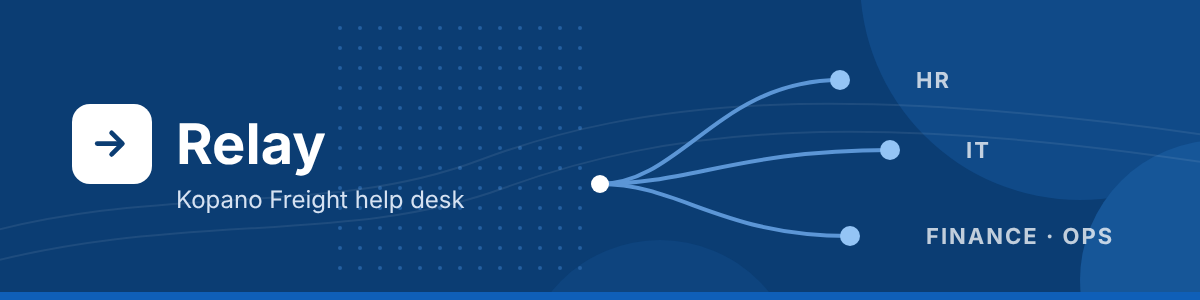
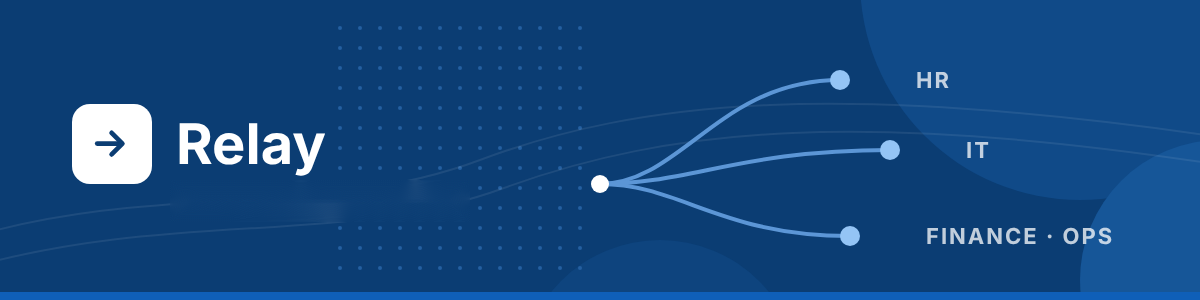
Email: restore the header design without the Kopano line; company name under it
Claude-Session: https://claude.ai/code/session_014Xczj9BvceXEqxvt3pSPtj

Changed region(s): [[0.1233, 0.63, 0.4008, 0.72]]

diff --git a/docs/email-templates/invite.html b/docs/email-templates/invite.html
@@ -1,5 +1,6 @@
 <!-- Relay email: invite. Paste into Supabase: Authentication > Emails > Invite user.
      Subject: You've been invited to Relay
+     Header image: public/email/header.png (must be on main before it shows).
      Uses the company name sent with the invite ({{ .Data.company_name }}). Manage users invites
      send no company name, so they fall back to Kopano Freight. Needs custom SMTP first (README). -->
 <!DOCTYPE html>
@@ -10,9 +11,13 @@
       <td align="center">
         <table role="presentation" width="600" cellpadding="0" cellspacing="0" style="max-width:600px;width:100%;background-color:#ffffff;border-radius:12px;overflow:hidden;font-family:Arial,Helvetica,sans-serif;">
           <tr>
-            <td style="padding:28px 40px;background-color:#0b3d73;">
-              <p style="margin:0;font-size:26px;font-weight:bold;color:#ffffff;">Relay</p>
-              <p style="margin:6px 0 0 0;font-size:14px;color:#d6e2f2;">{{ if .Data.company_name }}{{ .Data.company_name }}{{ else }}Kopano Freight{{ end }} help desk</p>
+            <td style="padding:0;line-height:0;background-color:#0b3d73;">
+              <img src="https://relay-gilt-nine.vercel.app/email/header.png" width="600" alt="Relay" style="display:block;width:100%;max-width:600px;height:auto;border:0;" />
+            </td>
+          </tr>
+          <tr>
+            <td style="padding:12px 40px;background-color:#0b3d73;">
+              <p style="margin:0;font-size:14px;color:#d6e2f2;">{{ if .Data.company_name }}{{ .Data.company_name }}{{ else }}Kopano Freight{{ end }} help desk</p>
             </td>
           </tr>
           <tr>

diff --git a/docs/email-templates/README.md b/docs/email-templates/README.md
@@ -1,8 +1,8 @@
 # Relay's emails
 
 Supabase sends Relay's account emails: the **invite** (Manage users, S2-25) and **choose a new password** (Forgot your
-password and Send password reset, S2-36). These files are Relay's own designs for them, with the navy header from
-`public/email/header.png`.
+password and Send password reset, S2-36). These files are Relay's own designs for them, with the navy header image in
+`public/email/header.png` (no company name in the picture; the company name is written under it).
 
 | File | Paste into (Supabase → Authentication → Emails) | Subject |
 | --- | --- | --- |
